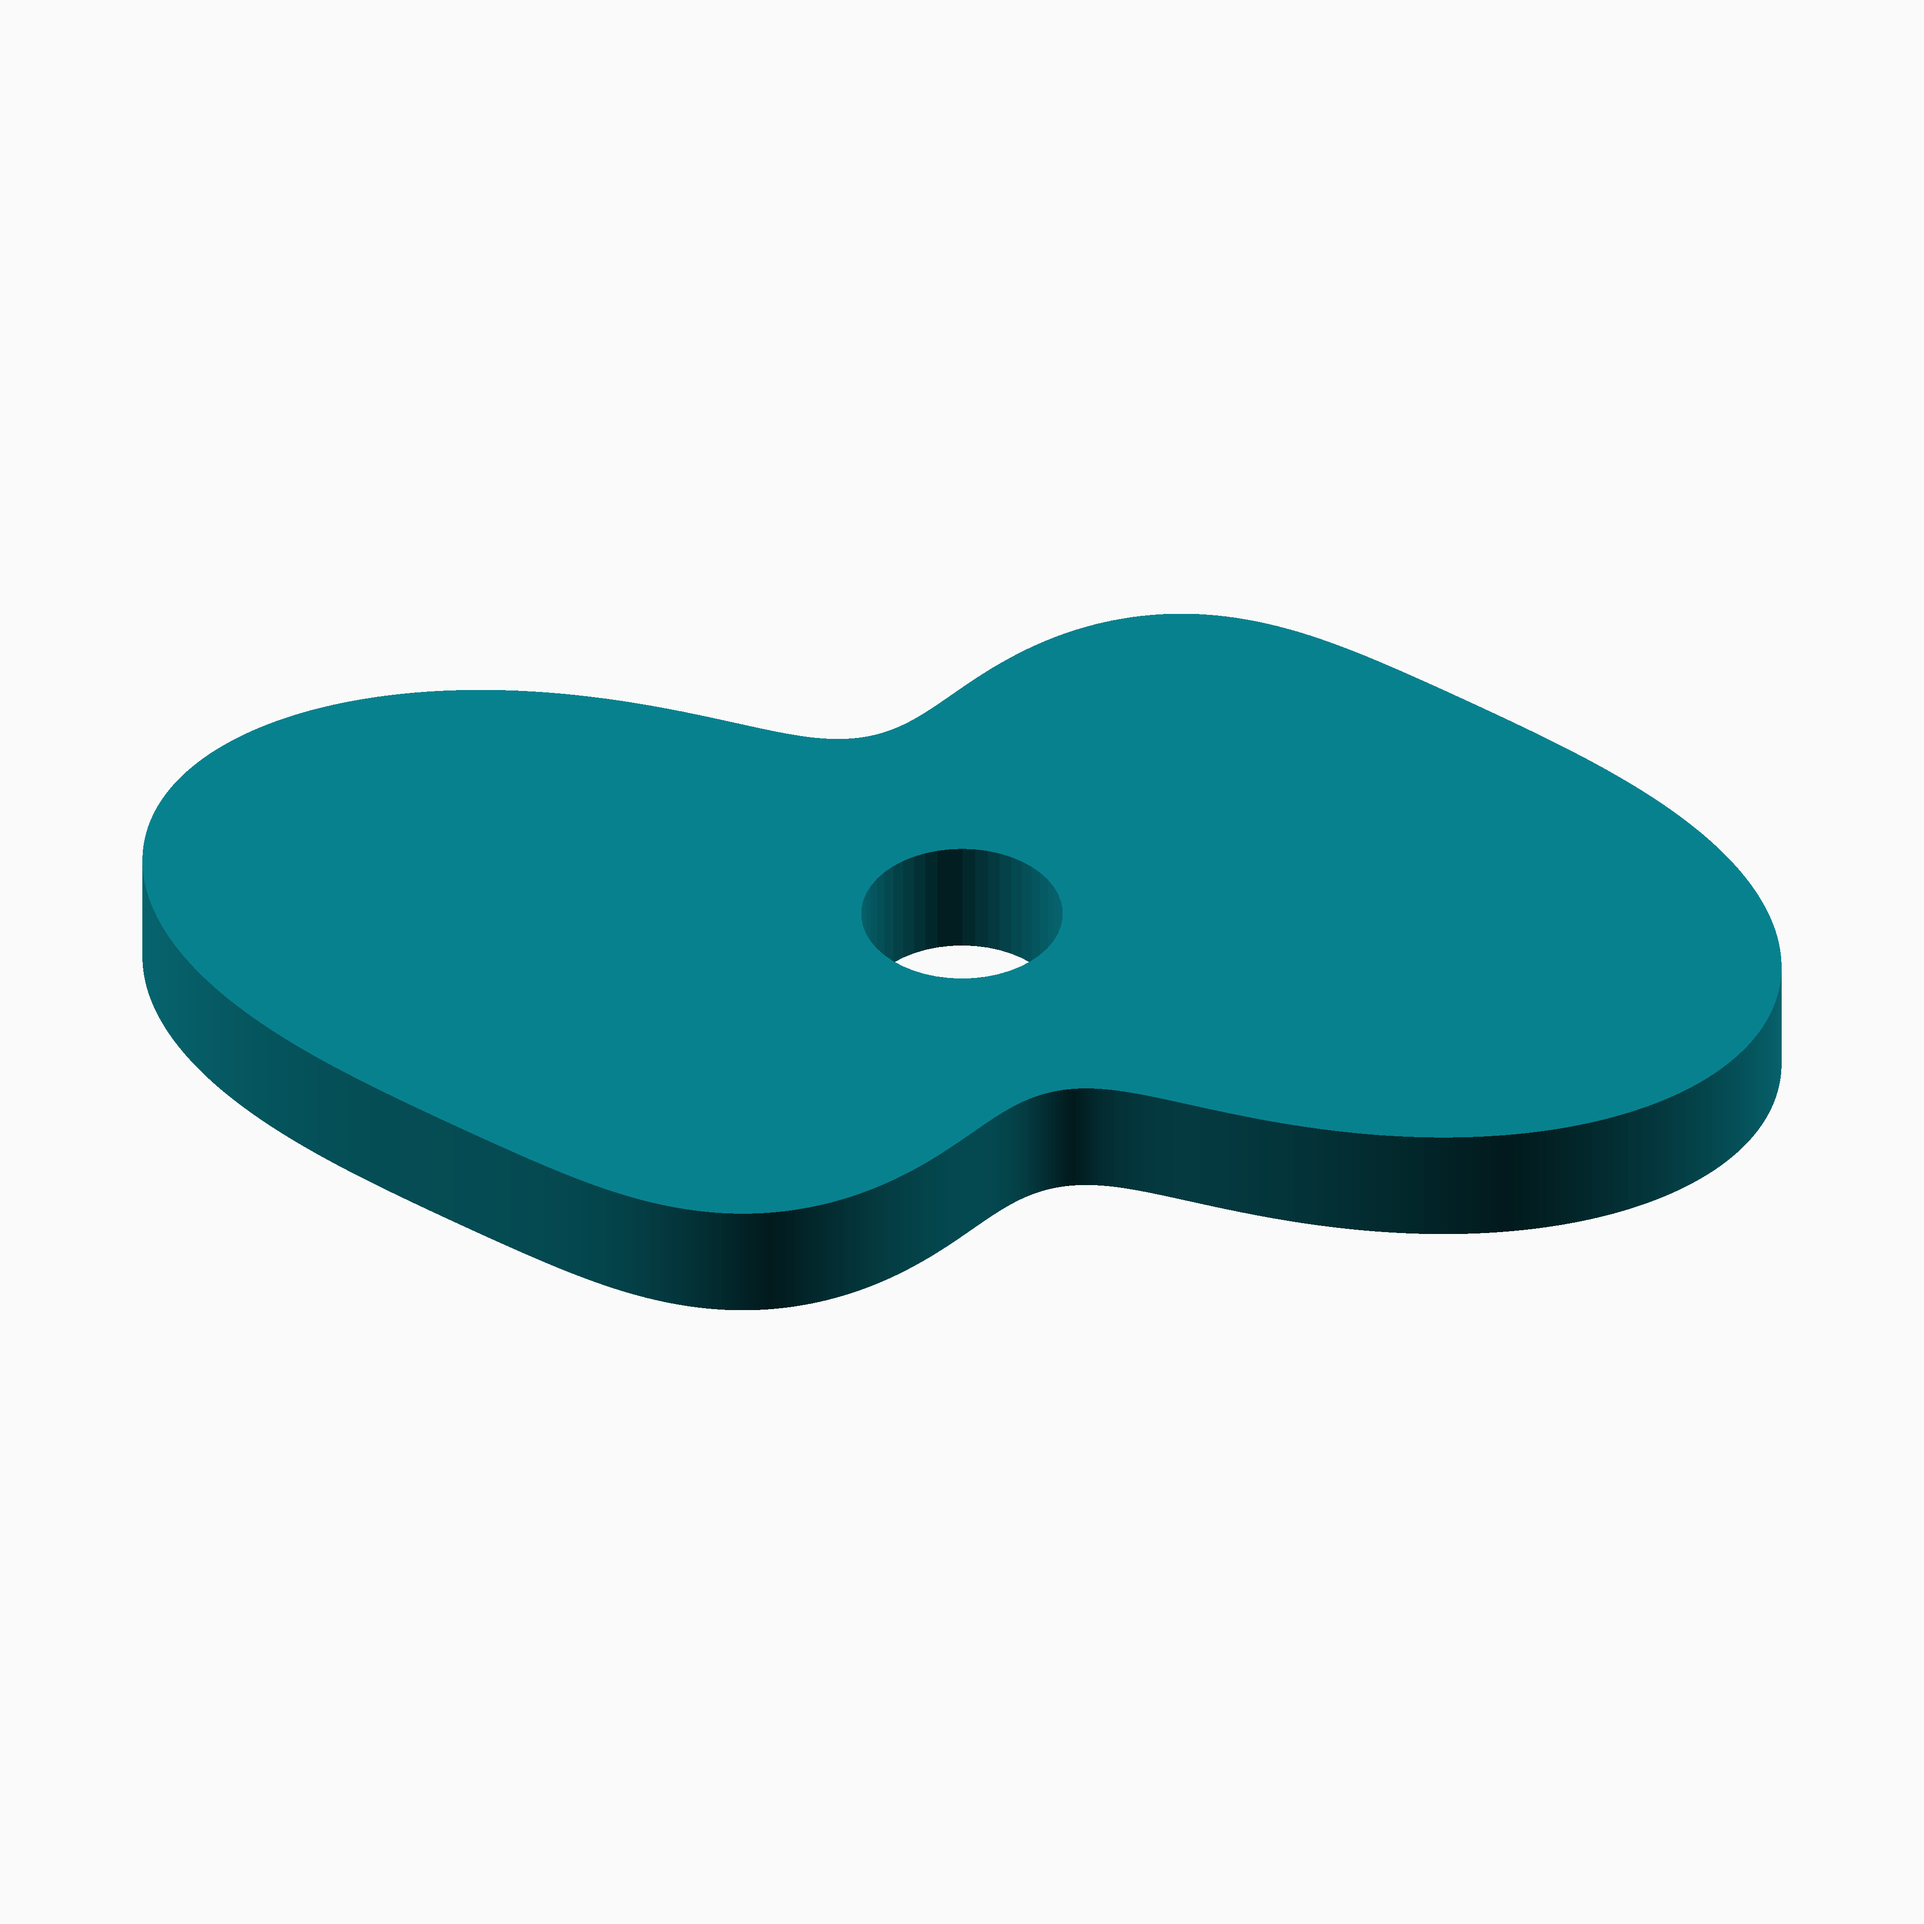
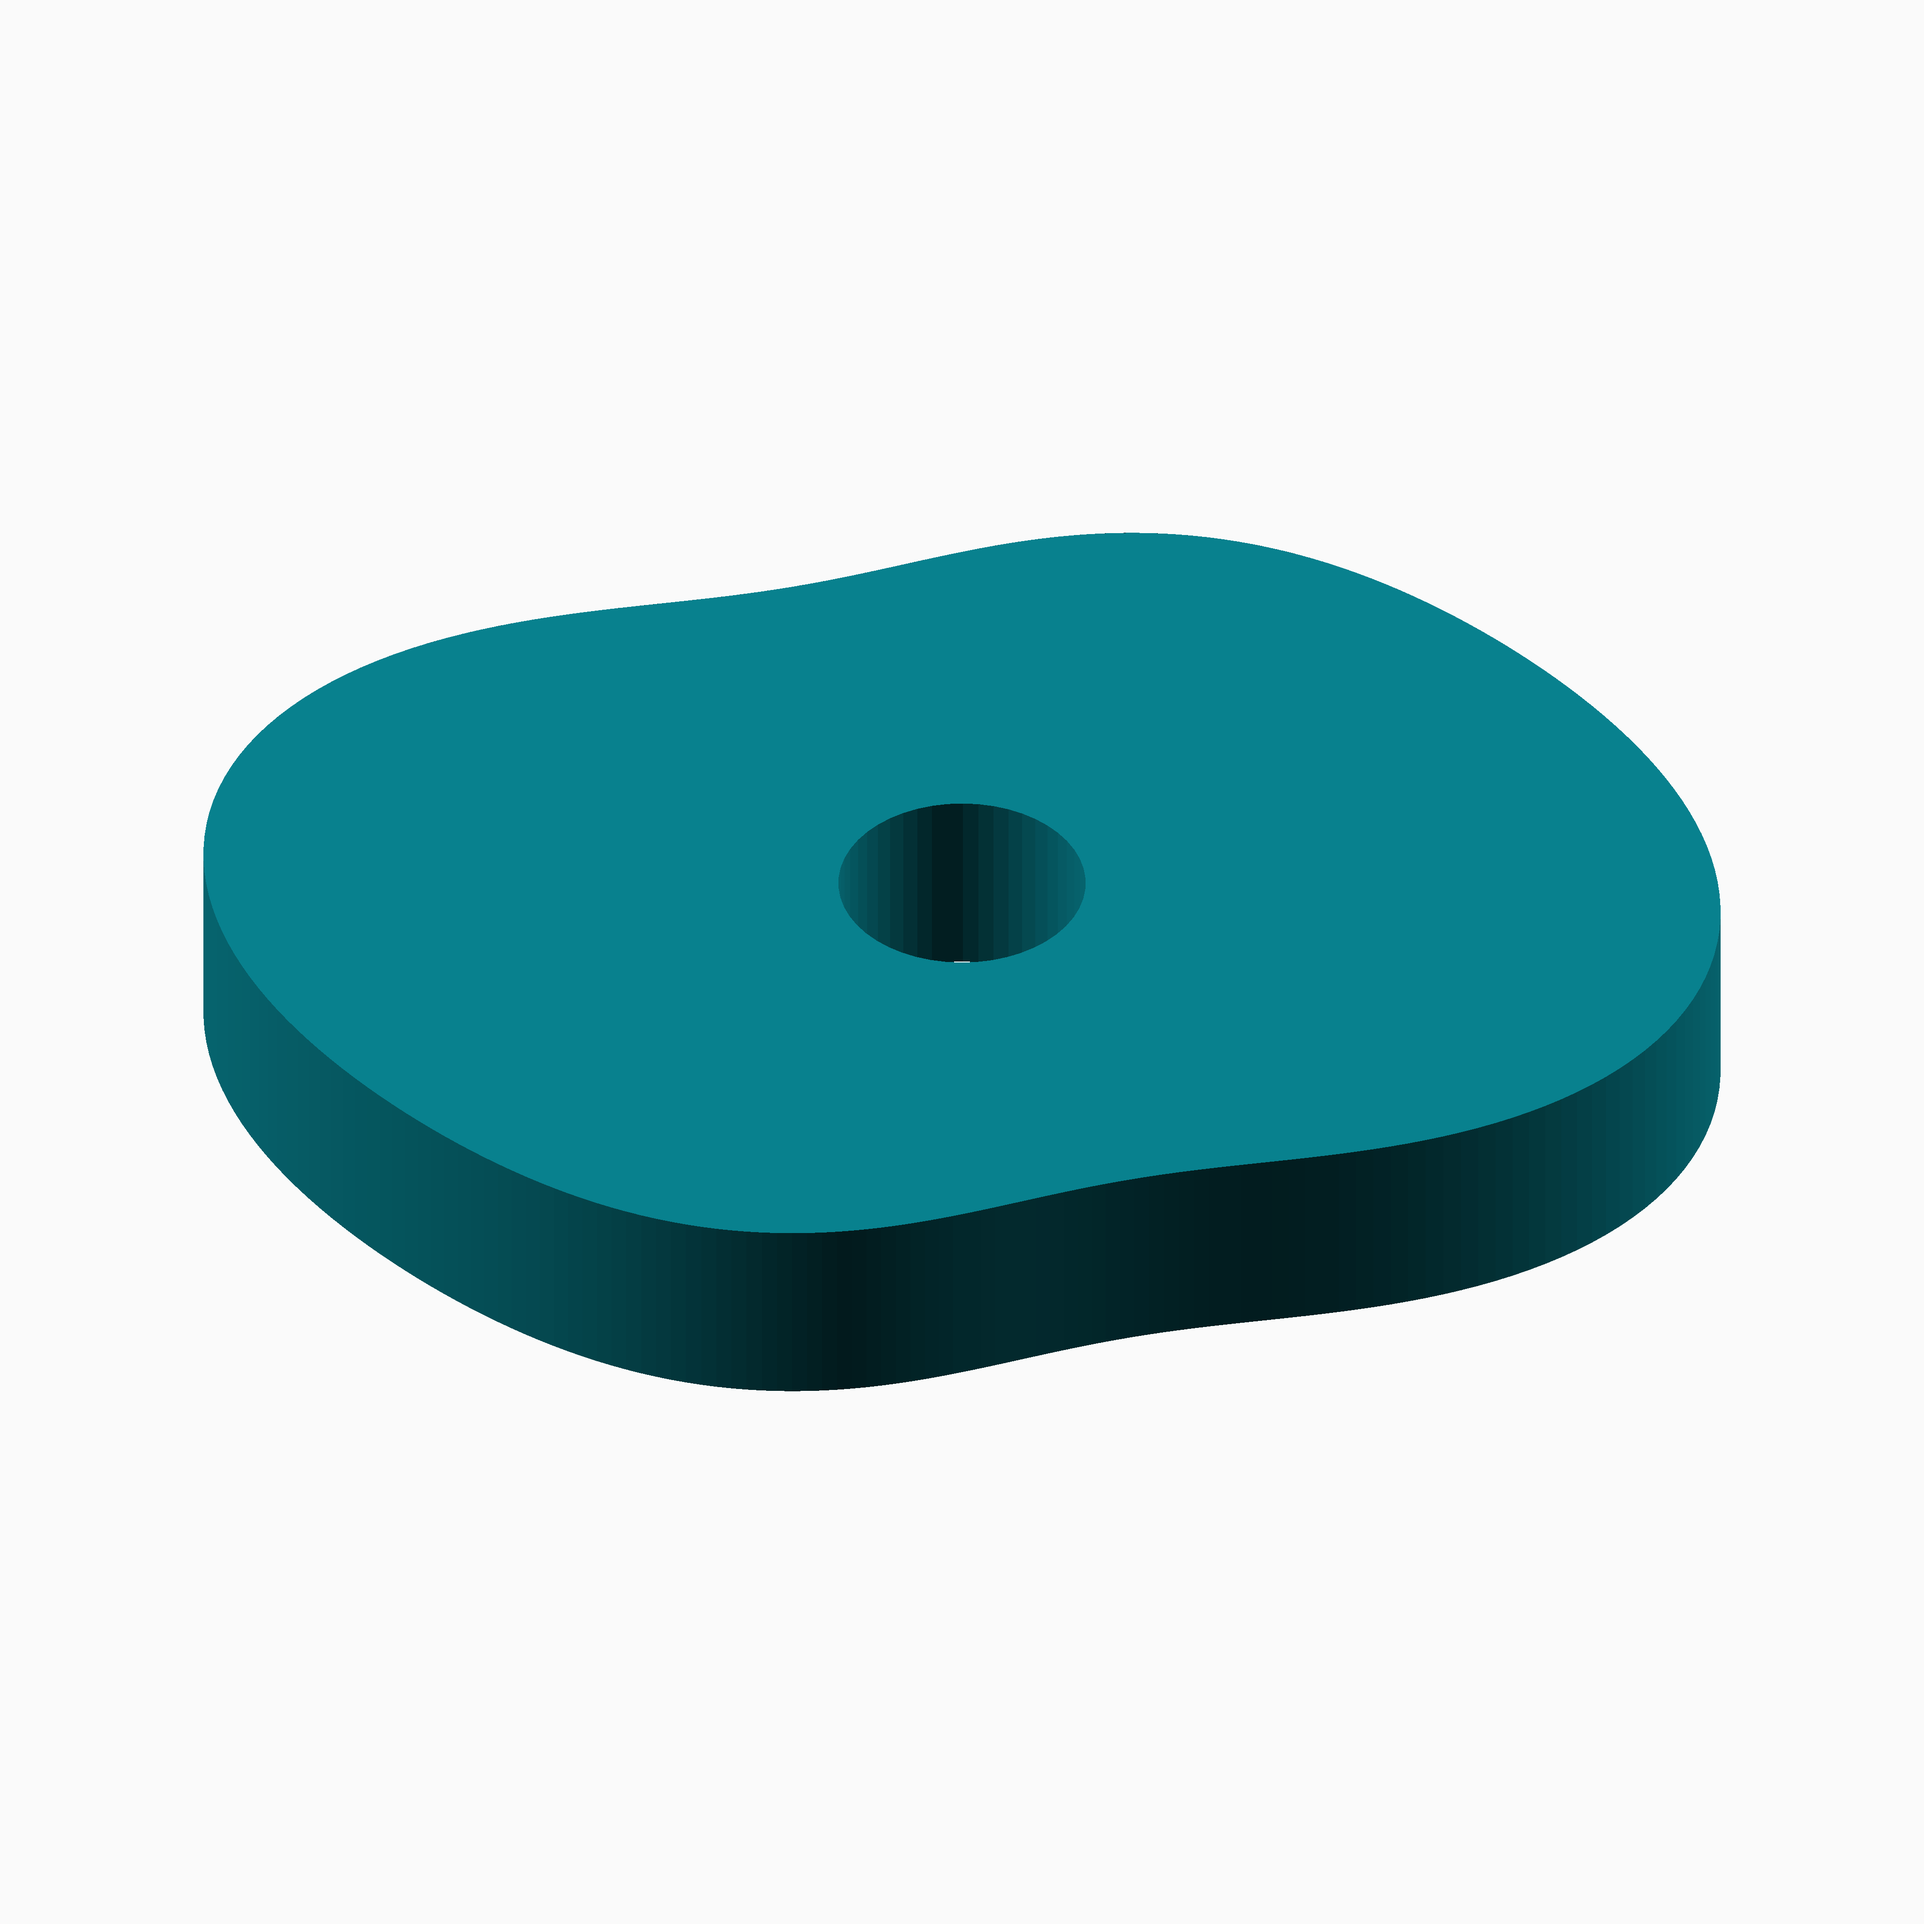
Swap Temple Fay example profiles

Changed region(s): [[0.0625, 0.375, 0.9375, 0.75], [0.1562, 0.25, 0.875, 0.5312]]

diff --git a/examples/README.md b/examples/README.md
@@ -224,7 +224,7 @@ tooth scale or body proportions. Spiral pairs remain static references.
 
 > [`curve_gear_temple_fay_centre_distance_example`](#function-curve_gear_temple_fay_centre_distance_example)
 
-> [`curve_gear_temple_fay_example`](#function-curve_gear_temple_fay_example): Temple Fay gear example.
+> [`curve_gear_temple_fay_example`](#function-curve_gear_temple_fay_example): Temple Fay butterfly gear example with broad lobes and a deep waist.
 
 > [`curve_gear_temple_fay_mate_example`](#function-curve_gear_temple_fay_mate_example)
 
@@ -476,7 +476,7 @@ tooth scale or body proportions. Spiral pairs remain static references.
 
 > [`temple_fay_body_alternative`](#function-temple_fay_body_alternative): Temple Fay alternative: The contrasting family controls shown as a body.
 
-> [`temple_fay_curve_gear_alternative`](#function-temple_fay_curve_gear_alternative): Temple Fay extreme butterfly alternative: Wing 0.38 and fold 0.14 create a deep waist and broad lobes.
+> [`temple_fay_curve_gear_alternative`](#function-temple_fay_curve_gear_alternative): Temple Fay alternative with a narrower waist and more compact lobes.
 
 > [`temple_fay_curve_gear_pair_alternative`](#function-temple_fay_curve_gear_pair_alternative): Temple Fay alternative pair: The alternative curve and its mate meshed in contact for inspection.
 
@@ -2296,12 +2296,12 @@ Back to [module description](#module-executable-examples).
 
 ### Function `curve_gear_temple_fay_example`
 
-| temple fay example preview | Full size |
+| temple fay butterfly example preview | Full size |
 | --- | --- |
-| [![temple fay example preview](../images/functions/temple_fay/curve_gear_temple_fay.png)](../images/functions/temple_fay/curve_gear_temple_fay.png) | [Open full-size image](../images/functions/temple_fay/curve_gear_temple_fay.png) ![](../images/table-spacer.png) |
+| [![temple fay butterfly example preview](../images/functions/temple_fay/curve_gear_temple_fay.png)](../images/functions/temple_fay/curve_gear_temple_fay.png) | [Open full-size image](../images/functions/temple_fay/curve_gear_temple_fay.png) ![](../images/table-spacer.png) |
 
 
-Temple Fay gear example.
+Temple Fay butterfly gear example with broad lobes and a deep waist.
 
 **Parameters:**
 
@@ -4778,7 +4778,7 @@ Back to [module description](#module-executable-examples).
 
 
 Source: [`functions/temple_fay/curve_gear_temple_fay_alternative.scad`](functions/temple_fay/curve_gear_temple_fay_alternative.scad)
-All alternative views use wing 0.38 and fold 0.14 for an extreme butterfly outline.
+All alternative views use wing 0.18 and fold 0.05 for a restrained outline.
 
 **Parameters:**
 

diff --git a/docs/temple_fay.md b/docs/temple_fay.md
@@ -55,10 +55,10 @@ The module `Temple Fay` defines the following functions.
 
 | Temple Fay gear 1 | Temple Fay gear 2 |
 | --- | --- |
-| [![temple fay example preview](../images/functions/temple_fay/curve_gear_temple_fay.png)](../images/functions/temple_fay/curve_gear_temple_fay.png) | [![Temple Fay gear alternative](../images/functions/temple_fay/curve_gear_temple_fay_alternative.png)](../images/functions/temple_fay/curve_gear_temple_fay_alternative.png) |
+| [![temple fay butterfly example preview](../images/functions/temple_fay/curve_gear_temple_fay.png)](../images/functions/temple_fay/curve_gear_temple_fay.png) | [![Temple Fay gear alternative](../images/functions/temple_fay/curve_gear_temple_fay_alternative.png)](../images/functions/temple_fay/curve_gear_temple_fay_alternative.png) |
 
 
-The main examples use the default wing 0.18 and fold 0.05 profile. Alternative standalone and pair examples share the extreme wing 0.38 and fold 0.14 profile.
+The canonical example uses the broad wing 0.38 and fold 0.14 profile. Alternative standalone and pair examples use wing 0.18 and fold 0.05.
 
 
 **Parameters:**
